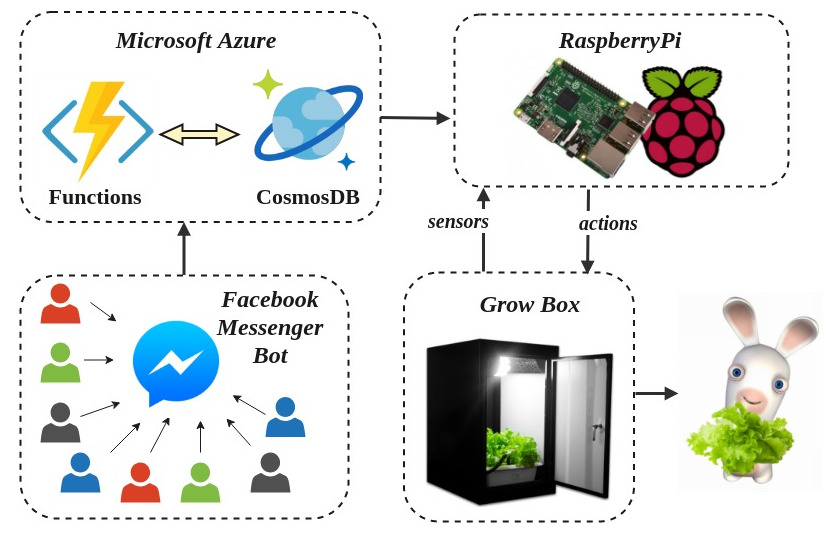
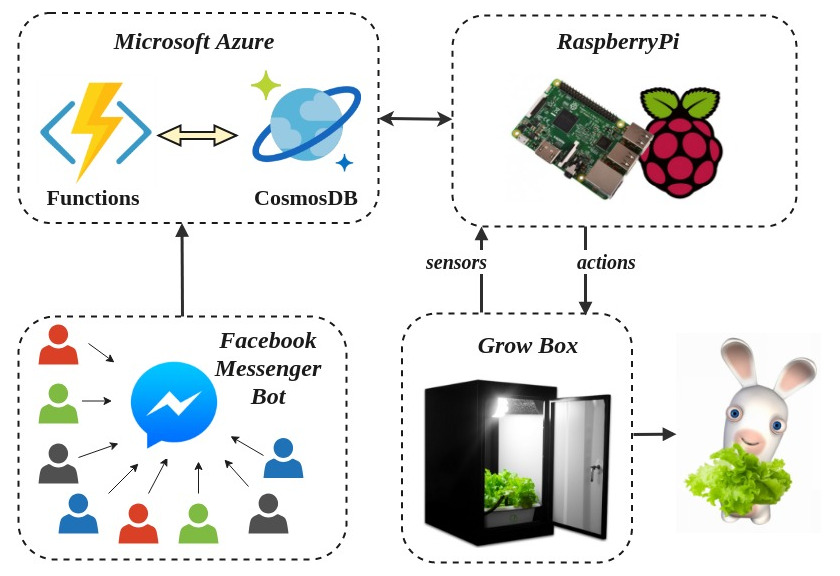
Change component diagram

diff --git a/README.md b/README.md
@@ -9,8 +9,12 @@
 
 
 ### This is he
+
+<div align="center">
+
 ![alt text](./doc/images/vaider.jpeg "The Vaider")
 
+</div>
 
 <img align="right" src="doc/images/bot.jpg" height="380px">
 
@@ -32,7 +36,11 @@ When the lettuce ripes all of it goes to the Vader, we don't take a leaf for our
 
 ### Architecture overview
 
+<div align="center">
+
 ![alt text](./doc/images/components.jpg "GreenFarm Architecture")
+
+</div>
 
 ### Components and integration
 
@@ -41,7 +49,12 @@ The brain of our hardware part is Raspberry Pi, all the sensors are connected to
 All the backend part is hosted in the Microsoft Azure. There are a bunch of Azure functions connected to the Messenger bot, they allow users get the last sensors data from the CosmosDB, give a vote for one of the future actions (which also stored to the CosmosDB) and live-checking the voting process. Every hour scheduled function get all the votes from the collection, find the winner and send an RPC call through the Azure IoT Hub to the Raspberry.
 
 Diagram of Microsoft Azure Functions
+
+<div align="center">
+
 ![alt text](./doc/images/functions.png "Microsoft Azure Functions")
+
+</div>
 
 In addition to sensors inside, there are several switches on the grow box each of them can turn on/off different actions, for example, light, cooler or watering. We have an old-school lego construction where servos connected to the to the switches with some kind of "robo-arms" and we can rotate servos to control the switches and perform actions. So when Raspberry receives the call to action from the cloud it rotates the appropriate servo to perform the action.
 
@@ -51,4 +64,9 @@ And as a proof of work every time some action on grow box performed we turn the 
 
 Let's grow the lettuce for the rabbit!
 
+<div align="center">
+
 ![alt text](./doc/images/qr-code.gif "QR-code")
+
+</div>
+
